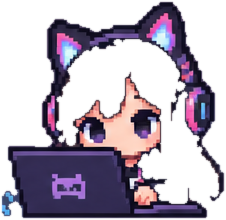
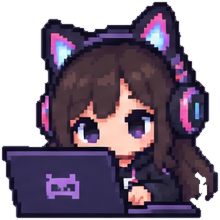
fix(nia): los sprites de la ficha conservan el suéter y el pelo castaño
El recorte anterior inundaba el fondo por paleta y se comía el pelo y el suéter, que
comparten tonos con el degradado. Ahora los bordes Sobel hacen de muro, la inundación
solo avanza por fondo claro y una segunda pasada fría entra únicamente desde arriba.
Se revisa sobre fondo blanco, no sobre índigo, que escondía los huecos.

diff --git a/scripts/recortar_nia.py b/scripts/recortar_nia.py
@@ -5,25 +5,34 @@ rejilla de 6×2 con 256 px por columna, cada una con su nombre escrito debajo y 
 fondo oscuro con resplandores de color distintos por celda. Este script saca solo
 las que usa la ficha y las deja con fondo transparente en frontend/public/nia/.
 
-Cómo se separa la figura del fondo, y por qué así. Se midió la hoja: el contorno
-negro del pixel art es lo más oscuro que hay (suma RGB < 110), mientras el fondo es
-un resplandor más claro (~300-360) e incluso más claro que el pelo (~190).
+Cómo se separa la figura del fondo. Se midió la hoja: el fondo es un resplandor
+morado que va de claro (suma RGB ~300-360) a casi negro en las esquinas; el pelo es
+café oscuro (~150-200, con el rojo por encima del azul) y el suéter, negro azulado.
 
-Dos intentos anteriores fallaron y conviene no repetirlos:
-- Inundar desde el borde de la celda sembraba también en el borde de abajo, que
-  corta la sudadera: se inundaba la figura por dentro y quedaba solo la cara.
-- Sembrar solo en fondo claro arregló una emoción, pero en las otras el resplandor
-  se oscurece junto al dibujo y la inundación se colaba por los tramos finos del
-  contorno hasta comerse el pelo.
+Lo que funciona es inundar el FONDO en dos pasadas, usando los bordes nítidos del
+pixel art como muro (el resplandor cambia de a pocos niveles por píxel; el dibujo,
+de decenas). Todo lo que ninguna pasada alcanza es la figura y queda opaco.
 
-- Tomar "oscuro" como contorno y rellenar lo que encierra: el fondo de la hoja
-  también es oscuro en las esquinas y entre celdas, y se mezclaba con el contorno.
+1. Desde el borde, sembrando solo en resplandor claro y sin entrar nunca a lo
+   oscuro. Así no toca el suéter: el borde de abajo lo corta, y en lo oscuro suéter
+   y fondo no se distinguen ni por color ni por borde.
+2. Solo desde la fila de arriba, dejando pasar lo oscuro pero solo por colores fríos
+   (azul >= rojo). Se lleva la esquina negra que la primera pasada no pisa; el pelo
+   café, cálido, le hace de muro y le impide bajar hasta el suéter.
 
-Lo que funciona: la diferencia entre figura y fondo no es el color sino la NITIDEZ.
-El resplandor del fondo cambia de a pocos niveles por píxel; el pixel art tiene
-bordes duros por todos lados. Se detectan esos bordes, se cierran en una cáscara y
-se rellena su interior. La base de la celda se trata como un borde más, porque el
-recorte corta la sudadera justo antes del nombre de la emoción.
+Lo que quede suelto tocando el borde de la celda se descarta; lo que flote sin
+tocarlo, como el globo de "…", se conserva. Donde nada de esto alcanza —un rincón
+de Happy— se tapa a mano con 'tapar'.
+
+Intentos que fallaron, para no repetirlos:
+- Sembrar en todo el borde: el de abajo corta el suéter y se inundaba por dentro.
+- Tomar "oscuro" como contorno y rellenar lo que encierra: el fondo también es
+  oscuro en las esquinas y se mezclaba con el contorno.
+- Rellenar la cáscara de bordes nítidos: el pelo y el suéter son zonas lisas, casi
+  sin bordes por dentro, y donde la cáscara no cerraba quedaban TRANSPARENTES.
+  Sobre el índigo de la app no se notaba —el fondo asomaba por el hueco y parecía
+  pelo negro—, así que el recorte se revisa siempre sobre blanco.
+- Sembrar la pasada fría también desde los lados: se comía las mangas de Happy.
 
 Uso:
     python scripts/recortar_nia.py
@@ -31,6 +40,7 @@ Uso:
 """
 
 import argparse
+from collections import deque
 from pathlib import Path
 
 import numpy as np
@@ -51,7 +61,9 @@ _SALIDA = _RAIZ / "frontend" / "public" / "nia"
 # pose más neutra y seria de la hoja, y coincide con lo que dice su texto ("conviene
 # revisar los motivos"). La cautela la completan el halo y el acento de la banda.
 _SPRITES = {
-    "ficha-bajo": {"emocion": "Happy", "caja": (512, 130, 768, 398)},
+    # La esquina de abajo a la izquierda de Happy es fondo oscuro pegado al mechón de
+    # pelo: ninguna pasada automática lo separa sin comerse las mangas, así que se tapa.
+    "ficha-bajo": {"emocion": "Happy", "caja": (512, 130, 768, 398), "tapar": (512, 367, 541, 399)},
     "ficha-medio": {"emocion": "Think", "caja": (768, 110, 1024, 398)},
     "ficha-alto": {"emocion": "Typing", "caja": (1024, 130, 1280, 398)},
 }
@@ -59,8 +71,17 @@ _SPRITES = {
 # Salto de luminancia entre vecinos a partir del cual hay un borde de dibujo. El
 # resplandor del fondo no pasa de unas pocas unidades; el pixel art, de decenas.
 _UMBRAL_BORDE = 28
-# Radio con el que se juntan los bordes en una cáscara cerrada antes de rellenarla.
-_RADIO_SELLADO = 3
+# Los bordes se engordan este radio antes de usarlos como muro, para tapar los
+# tramos de contorno de un solo píxel por donde se colaba la inundación.
+_RADIO_MURO = 1
+# Solo se siembra donde el borde de la celda es resplandor claro, nunca en el suéter.
+_BRILLO_MIN_SEMILLA = 200
+# Cuánto puede cambiar el color entre dos vecinos para seguir siendo fondo.
+_TOLERANCIA = 30
+# La inundación no entra a lo oscuro. Sin esto bajaba por el degradado del resplandor
+# hasta las esquinas negras de la hoja y de ahí se metía al suéter: en lo oscuro,
+# suéter y fondo no se distinguen ni por color ni por borde.
+_BRILLO_MIN_FONDO = 170
 # Piezas sueltas más chicas que esto se tiran (chispas, corazoncitos); lo que pase de
 # aquí y no toque a la figura se conserva, como el globo de "…" de Think.
 _AREA_MINIMA = 1500
@@ -71,34 +92,79 @@ def _disco(radio: int) -> np.ndarray:
     return x**2 + y**2 <= radio**2
 
 
+def _inundar_fondo(px: np.ndarray, muro: np.ndarray, solo_arriba: bool = False) -> np.ndarray:
+    """solo_arriba: siembra únicamente en la fila de arriba y deja pasar lo oscuro."""
+    alto, ancho, _ = px.shape
+    brillo = px.sum(axis=2)
+    fondo = np.zeros((alto, ancho), dtype=bool)
+    # En la pasada de arriba solo se pisa lo frío. La esquina oscura de la hoja es
+    # morada (azul > rojo) y el pelo es café (rojo > azul): el pelo le hace de muro y
+    # la inundación no puede bajar por él hasta el suéter.
+    frio = px[:, :, 2] >= px[:, :, 0]
+    if solo_arriba:
+        # Solo arriba. Desde los lados se probó y se comía las mangas de Happy, que son
+        # oscuras, frías y llegan casi al borde; desde abajo se comería el suéter.
+        cola = deque((0, x) for x in range(ancho) if not muro[0, x] and frio[0, x])
+        brillo_min = -1
+    else:
+        borde = [(0, x) for x in range(ancho)] + [(alto - 1, x) for x in range(ancho)]
+        borde += [(y, 0) for y in range(alto)] + [(y, ancho - 1) for y in range(alto)]
+        cola = deque(p for p in borde if brillo[p] > _BRILLO_MIN_SEMILLA and not muro[p])
+        brillo_min = _BRILLO_MIN_FONDO
+    while cola:
+        y, x = cola.popleft()
+        if fondo[y, x]:
+            continue
+        fondo[y, x] = True
+        actual = px[y, x]
+        for dy, dx in ((1, 0), (-1, 0), (0, 1), (0, -1)):
+            ny, nx = y + dy, x + dx
+            if 0 <= ny < alto and 0 <= nx < ancho and not fondo[ny, nx] and not muro[ny, nx]:
+                if solo_arriba and not frio[ny, nx]:
+                    continue
+                if brillo[ny, nx] > brillo_min and np.abs(px[ny, nx] - actual).sum() <= _TOLERANCIA:
+                    cola.append((ny, nx))
+    return fondo
+
+
 def recortar(hoja: Image.Image, caja: tuple, tapar: tuple | None) -> Image.Image:
     celda = hoja.crop(caja).convert("RGB")
     px = np.asarray(celda).astype(np.float32)
 
     luz = px @ np.array([0.299, 0.587, 0.114], dtype=np.float32)
     salto = np.hypot(ndimage.sobel(luz, axis=0), ndimage.sobel(luz, axis=1)) / 4
-    bordes = salto > _UMBRAL_BORDE
+    muro = ndimage.binary_dilation(salto > _UMBRAL_BORDE, _disco(_RADIO_MURO))
+
+    # Segunda pasada solo desde arriba: la esquina oscura de la hoja cae como un
+    # degradado liso hasta el contorno de la cabeza. La compuerta de brillo que protege
+    # el suéter le impedía entrar a la primera pasada; desde arriba no hay suéter que
+    # proteger, y el contorno negro de la cabeza es un borde fuerte que la frena.
+    figura = ~(_inundar_fondo(px, muro) | _inundar_fondo(px, muro, solo_arriba=True))
     if tapar:
         x0, y0, x1, y1 = (tapar[0] - caja[0], tapar[1] - caja[1], tapar[2] - caja[0], tapar[3] - caja[1])
-        bordes[max(0, y0):y1, max(0, x0):x1] = False
+        figura[max(0, y0):y1, max(0, x0):x1] = False
 
-    cascara = ndimage.binary_closing(bordes, _disco(_RADIO_SELLADO))
-    # La base del recorte cierra la cáscara por abajo: ahí se cortó la sudadera.
-    cascara[-1, :] = True
-    figura = ndimage.binary_fill_holes(cascara)
-    figura[-1, :] = figura[-2, :]
-
+    # Se queda la figura (la pieza más grande) y lo que flote suelto sin tocar el borde
+    # de la celda, como el globo de "…". Las esquinas oscuras de la hoja, que la
+    # inundación ya no pisa, sí tocan el borde: esas se van. Las chispas, por chicas.
     etiquetas, cuantas = ndimage.label(figura)
     if cuantas:
         tamanos = ndimage.sum(figura, etiquetas, range(1, cuantas + 1))
-        quedan = [i + 1 for i, t in enumerate(tamanos) if t >= _AREA_MINIMA]
+        figura_principal = int(np.argmax(tamanos)) + 1
+        en_borde = set(np.unique(np.concatenate([
+            etiquetas[0, :], etiquetas[-1, :], etiquetas[:, 0], etiquetas[:, -1],
+        ]))) - {0}
+        quedan = [figura_principal] + [
+            i + 1 for i, t in enumerate(tamanos)
+            if i + 1 != figura_principal and t >= _AREA_MINIMA and (i + 1) not in en_borde
+        ]
         figura = np.isin(etiquetas, quedan)
-    if tapar:
-        figura[max(0, y0):y1, max(0, x0):x1] = False
+    # El muro engordó el contorno un píxel hacia afuera: se recupera ese borde fino.
+    figura = ndimage.binary_erosion(figura, _disco(_RADIO_MURO)) | (figura & (salto > _UMBRAL_BORDE))
 
     salida = celda.convert("RGBA")
     alfa = Image.fromarray(np.where(figura, 255, 0).astype(np.uint8), mode="L")
-    salida.putalpha(alfa.filter(ImageFilter.GaussianBlur(0.6)))
+    salida.putalpha(alfa.filter(ImageFilter.GaussianBlur(0.5)))
     return salida.crop(salida.getbbox())
 
 
